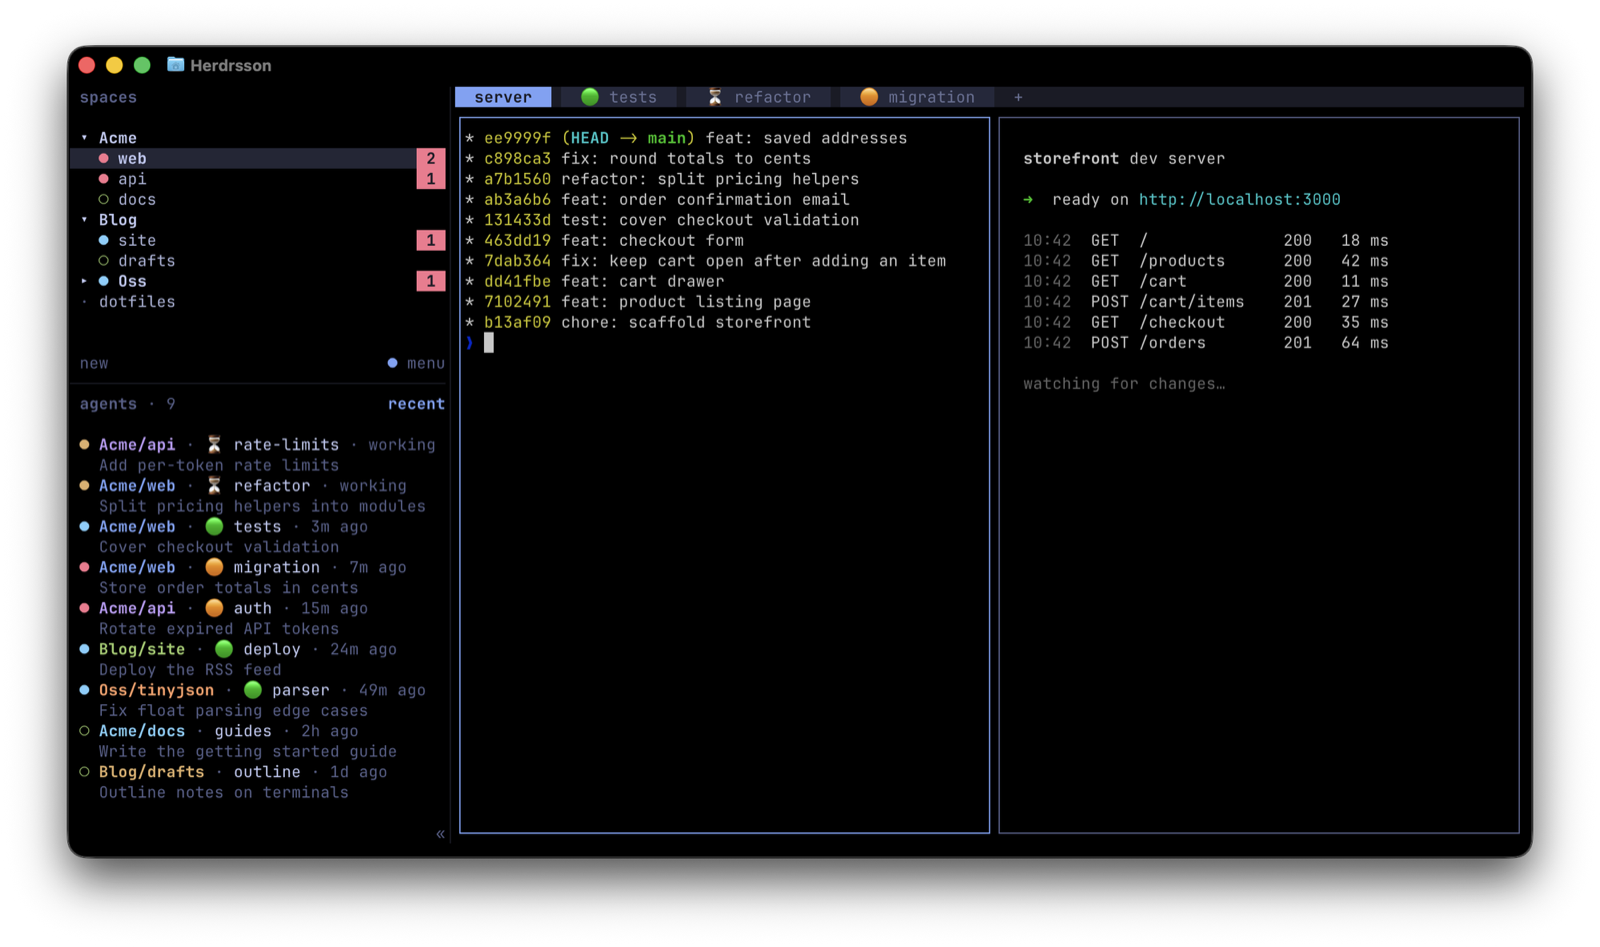
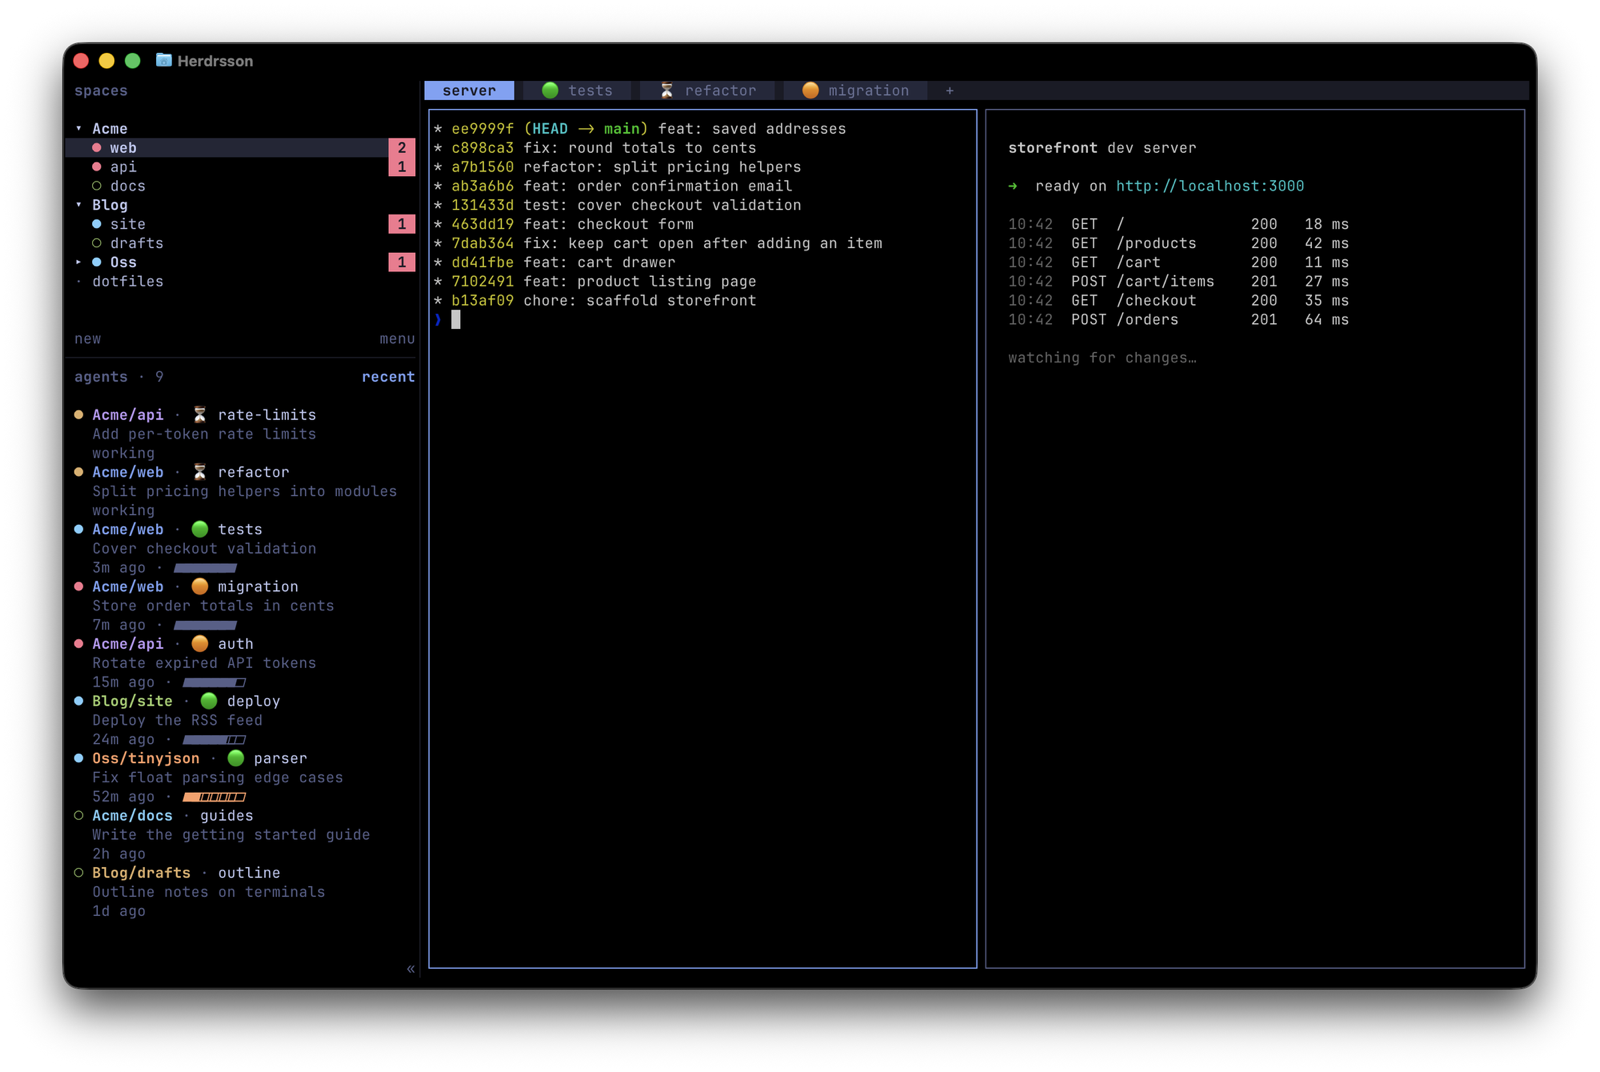
docs: show the new screenshot in FORK.md and at the top of the README

Changed region(s): [[0.0312, 0.0306, 0.9688, 0.9493], [0.7188, 0.3981, 0.75, 0.4287], [0.6562, 0.3981, 0.6875, 0.4287]]

diff --git a/FORK.md b/FORK.md
@@ -25,13 +25,15 @@ Only the window knows about groups. The server, the API and the saved session ke
 and their own order, so nothing else changes: stock Herdr just shows `Web/blog` as the
 space's name. If Herdr ever gets groups of its own, this fork will drop these and use them.
 
-![Herdrsson with its spaces in the groups Acme, Blog and a folded Oss, red counts of waiting agents, and the agents panel listed by last activity](assets/fork-screenshot.png)
+![Herdrsson with its spaces in the groups Acme, Blog and a folded Oss, red counts of waiting agents, and the agents panel listed by last activity, each agent on three lines with the time since then and a bar of its prompt cache's time left](assets/fork-screenshot.png)
 
 The groups `Acme` and `Blog` are open and `Oss` is folded, its header counting the agent waiting
-in one of its spaces. Two separate Herdr plugins add the rest:
+in one of its spaces. Three separate Herdr plugins add the rest:
 [Tab Status](https://github.com/bagonyi/herdr-tab-status) puts the 🟢 ⏳ 🟠 markers in front of
-tab names, and [Agent Recency](https://github.com/bagonyi/herdr-agent-recency) lists the agents
-panel by each agent's last activity, which this fork shows as `3m ago`.
+tab names, [Agent Recency](https://github.com/bagonyi/herdr-agent-recency) lists the agents
+panel by each agent's last activity, which this fork shows as `3m ago`, and
+[Claude Cache Timer](https://github.com/bagonyi/herdr-claude-cache-timer) adds the bar of each
+idle Claude agent's prompt cache, which empties as its hour runs out, the last segment orange.
 
 ## what's changed
 

diff --git a/README.md b/README.md
@@ -1,3 +1,5 @@
+![Herdrsson with its spaces in the groups Acme, Blog and a folded Oss, red counts of waiting agents, and the agents panel listed by last activity, each agent on three lines with the time since then and a bar of its prompt cache's time left](assets/fork-screenshot.png)
+
 > [!NOTE]
 > **Herdrsson is a personal, unofficial fork of [herdrdev/herdr](https://github.com/herdrdev/herdr).**
 > The `herdrsson` branch is Herdr's code plus space groups in the sidebar (a space named
